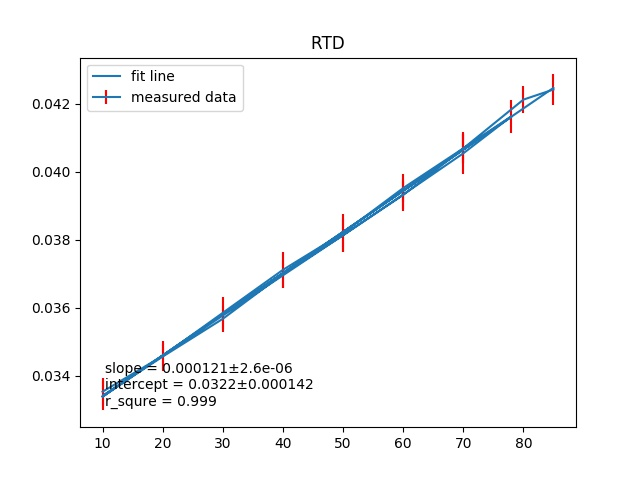
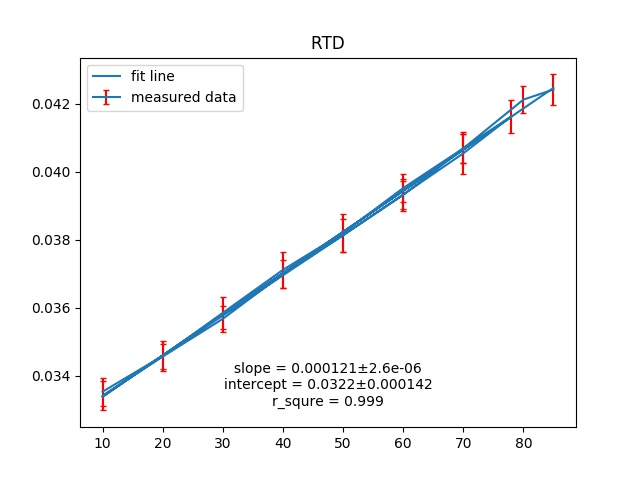
Beautify and fix some things

Changed region(s): [[0.1562, 0.75, 0.6875, 0.8438], [0.5312, 0.4375, 0.5625, 0.4688], [0.1562, 0.8438, 0.1875, 0.875]]

diff --git a/lab03/LAB03_confidence.py b/lab03/LAB03_confidence.py
@@ -42,11 +42,13 @@ for i in range(len(us)):
 
         left = np.min(np.where(interval))
         right = np.max(np.where(interval))
-        plt.text(x[left],  y[left],  str(np.around(Qmin, 7)), 
+        plt.text(x[left],  y[left],  str(np.around(Qmin, 7)),
                  horizontalalignment='right', verticalalignment='bottom', size=10)
         plt.text(x[right], y[right], str(np.around(Qmax, 7)), 
                  horizontalalignment='left' , verticalalignment='bottom', size=10)
+        plt.text(x[50],    y[50],  str(np.around(us[i], 7)), 
+                 horizontalalignment='center', verticalalignment='bottom', size=10)
 
+    # plt.show()
     plt.savefig("measurement_" + str(i + 1) + ".jpg")
     plt.clf()
-    # plt.show()

diff --git a/lab04/Thermo_calibration.py b/lab04/Thermo_calibration.py
@@ -45,12 +45,12 @@ def plotOne(arr):
     # plot
     text = 'slope = {:.3}±{:.3}\nintercept = {:.3}±{:.3}\nr_squre = {:.3}'.format(
             slope, std_b, intercept, std_a, r_value**2)
-    plt.text(.05, .05, text,
-        horizontalalignment='left',
+    plt.text(.50, .05, text,
+        horizontalalignment='center',
         verticalalignment='bottom',
         transform=plt.gca().transAxes)
     plt.plot(x, slope * x + intercept, label="fit line")
-    plt.errorbar(x, y, yerr=ystd, label="measured data", ecolor='red')
+    plt.errorbar(x, y, yerr=ystd, label="measured data", ecolor='red', capsize=2)
     plt.legend(loc = 0)
 
 # main
